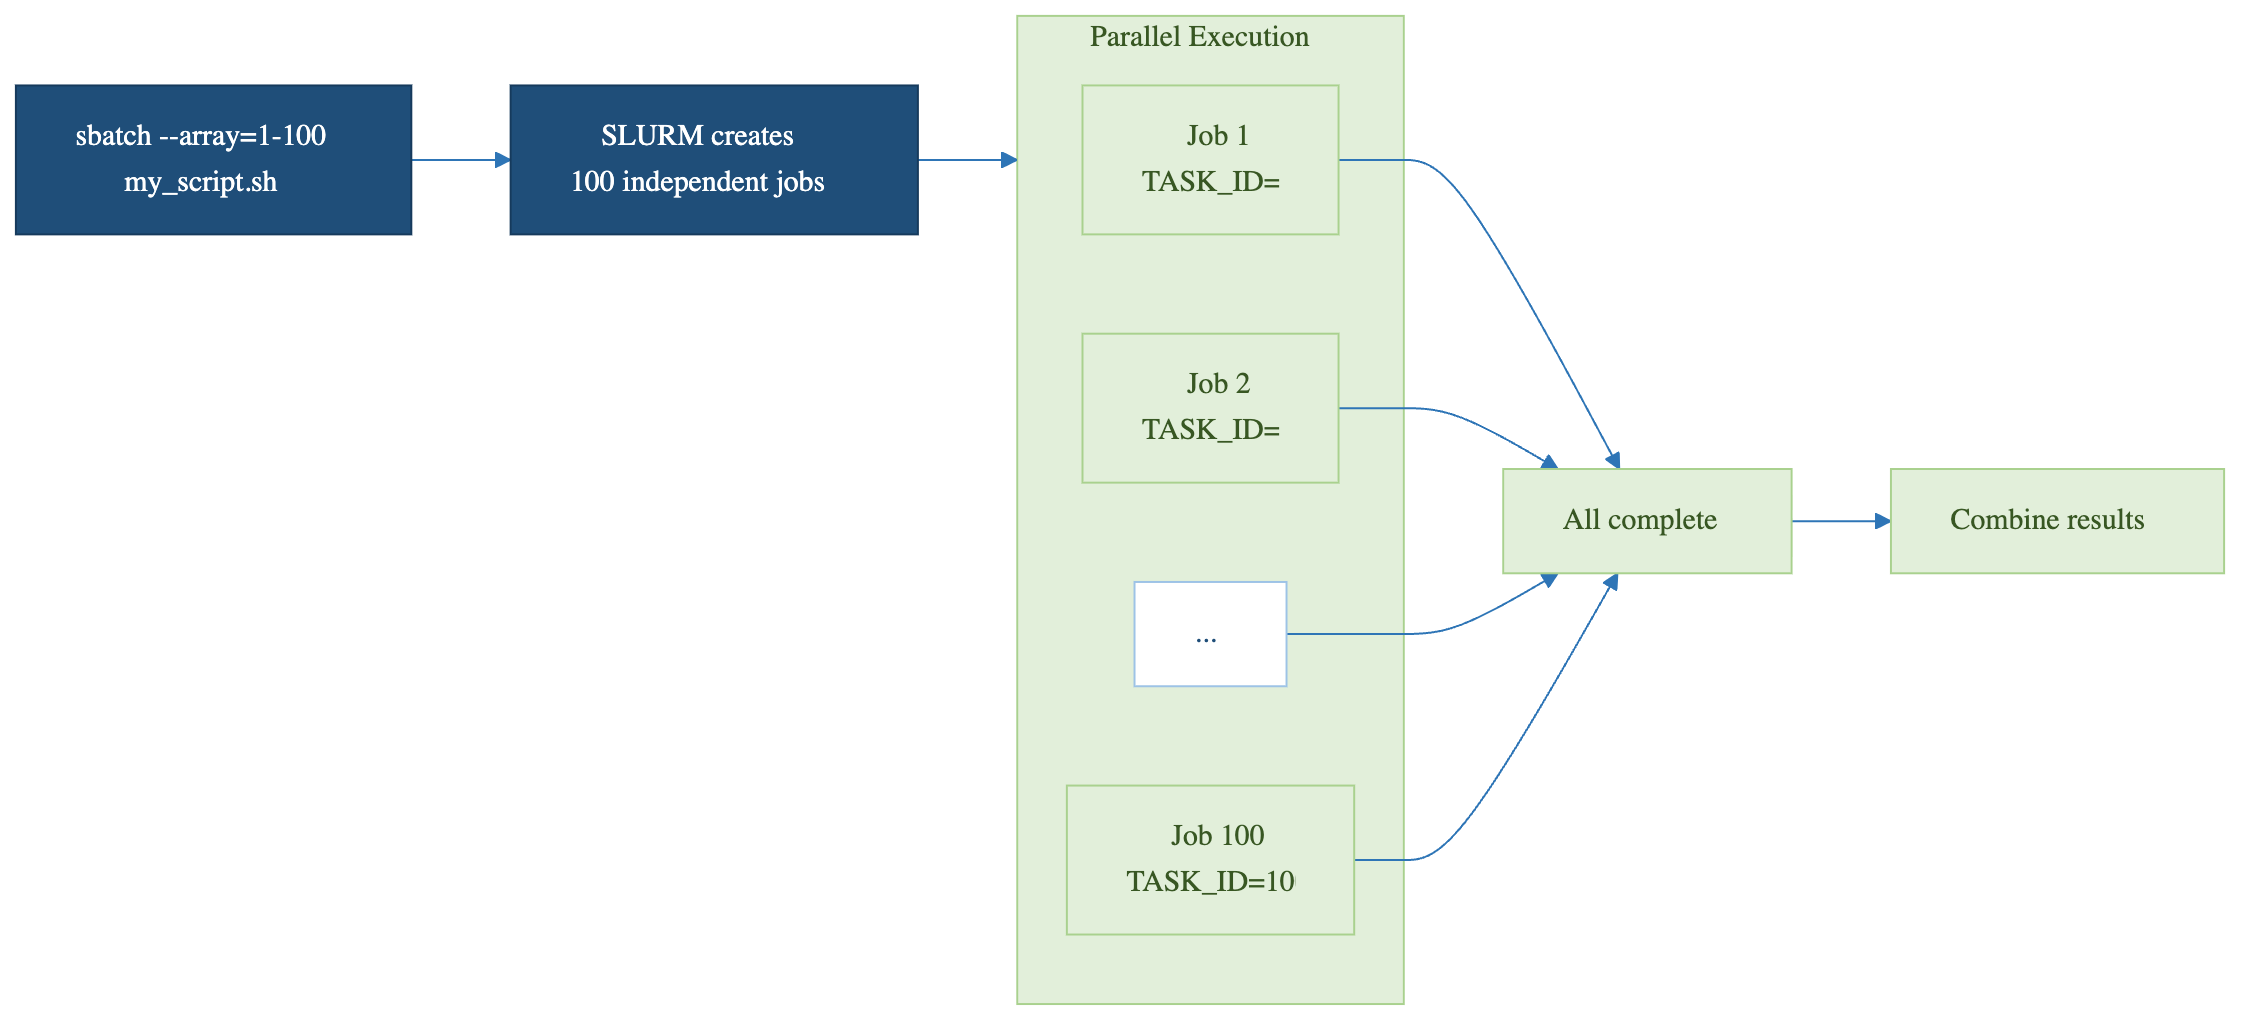
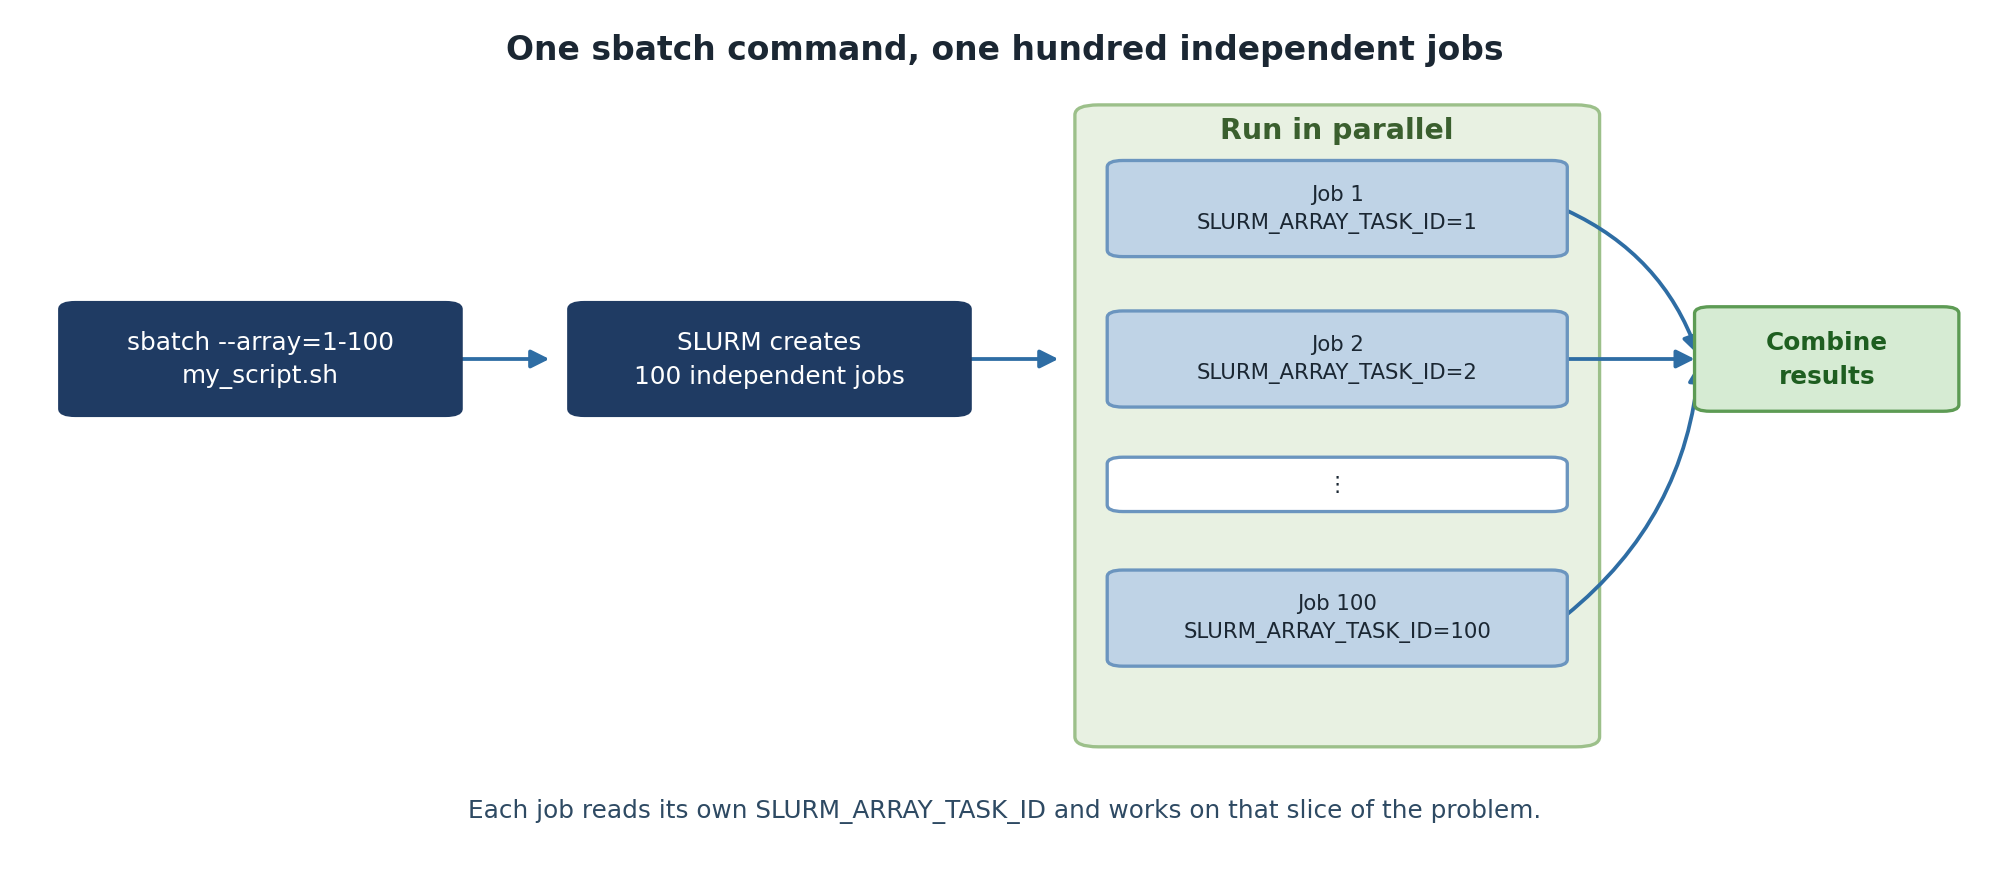
Rebuild and place the eight episode diagrams
All eight diagrams in this workshop existed in episodes/fig but were referenced
by nothing, so the workshop shipped with no illustrations at all. They were also
unusable as they stood: exported at aspect ratios up to 18:1, which renders as
an unreadable sliver at page width, with clipped labels and washed-out text.

Three carried factual errors, which is the more important reason they could not
simply be dropped in:

  02-shared-vs-distributed   said the shared RAM was 256 GB. Sagehen HPC compute
                             nodes have 500 GB, and 128 cores rather than 4.
  04-job-arrays              showed SLURM_ARRAY_TASK_ID blank for jobs 1 and 2
                             and equal to 10 for job 100.
  08-amdahl                  had 20% serial + 80%/4 cores arriving at 35%.
                             It is 40%.

Redrawn from the same content with those corrections, at page-friendly aspect
ratios between 1.7:1 and 2.3:1, and placed in the episode each one actually
belongs to. Note the file numbers are their own sequence, not episode numbers --
08-amdahl belongs to episode 2, and 02-shared-vs-distributed to episode 3.

Each is placed with a caption that makes a point rather than restating the
title, and alt text describing what the diagram shows for anyone using a
screen reader.

diff --git a/episodes/07-advanced-job-arrays.md b/episodes/07-advanced-job-arrays.md
@@ -89,6 +89,8 @@ print(f"Wrote {len(settings) * len(colors)} parameter combinations")
 
 The file approach decouples parameter generation from the SLURM script. You can review the file before submission, modify combinations without changing the script, and replicate the exact same sweep later by saving the file in version control.
 
+![A parameter sweep is a job array over a list of settings, one line per combination.](fig/05-parameter-sweep.png){alt='A five-step flow. Define the parameters, for example learning rate values of 0.001, 0.01 and 0.1 and batch sizes of 32, 64 and 128. Write them to a parameter file with nine combinations, one per line. Submit one array job with sbatch --array=1-9 sweep.sh. Each task reads the line matching its SLURM_ARRAY_TASK_ID and runs that experiment. Finally, collect the results and pick the best.'}
+
 ## Using argparse with Job Arrays
 
 The SLURM script handles index-to-parameter mapping, but the actual training script should accept parameters as command-line arguments using `argparse`:

diff --git a/episodes/02-amdahls-law.md b/episodes/02-amdahls-law.md
@@ -67,6 +67,8 @@ For each scenario, calculate the theoretical speedup on 8 processors:
 ::::::::::::::::::::::::::::::::::::::::::::::::
 ::::::::::::::::::::::::::::::::::::::::::::::::
 
+![The serial fraction sets a floor no amount of hardware can get below.](fig/08-amdahl.png){alt="Two panels illustrating Amdahl's Law. On the left, code is split into a serial portion of twenty percent that cannot be parallelised and a parallel portion of eighty percent that can use many cores. On the right, total time as cores increase: one core takes one hundred percent, four cores take twenty plus eighty over four equals forty percent, sixteen cores take twenty plus eighty over sixteen equals twenty-five percent, and infinite cores still take twenty percent because the serial portion remains."}
+
 ## Measuring in Practice
 
 ```bash

diff --git a/episodes/03-types-of-parallelism.md b/episodes/03-types-of-parallelism.md
@@ -51,6 +51,8 @@ Each processor has its **own memory**. Data sharing requires explicit message pa
 **Challenges:** Higher latency, explicit communication code.
 **Examples:** MPI, Spark, distributed databases.
 
+![Shared memory keeps everything in one address space; distributed memory makes you send data across the network yourself.](fig/02-shared-vs-distributed.png){alt='Two panels. Shared memory on one node shows four cores all reading the same 500 GB of RAM, used by OpenMP, threading and multiprocessing, with a note that all 128 cores on a node share that memory. Distributed memory across many nodes shows Node A and Node B, each with 128 cores and their own RAM, connected through a network, with a note that data must be sent explicitly using MPI.'}
+
 ### Sagehen HPC's Hybrid Architecture
 
 Sagehen uses both:

diff --git a/episodes/11-mpi-basics.md b/episodes/11-mpi-basics.md
@@ -135,6 +135,8 @@ if rank == 0:
 
 This is a classic MPI pattern: each rank gets disjoint work derived from its rank ID, computes locally, and contributes to a final reduction. There is no inter-rank communication during the actual computation, only at the end. This minimizes communication and gives near-linear scaling.
 
+![The four collective operations, and which direction the data moves in each.](fig/06-mpi-operations.png){alt='Four panels showing MPI collective operations. Reduce sums values 3, 7 and 2 from ranks 1 to 3 into 12 on rank 0. Gather collects B, C and D from ranks 1 to 3 into A B C D on rank 0. Scatter sends the parts of A B C D from rank 0 out to ranks 1, 2 and 3. Broadcast copies the value A from rank 0 to all three other ranks.'}
+
 ## MPI Performance Considerations
 
 MPI scales well only if:

diff --git a/episodes/04-embarrassingly-parallel.md b/episodes/04-embarrassingly-parallel.md
@@ -38,6 +38,8 @@ If you answered YES to all four, use job arrays!
 
 ::::::::::::::::::::::::::::::::::::::::::::::::
 
+![If the tasks are independent and the results can be combined afterwards, a job array is all you need.](fig/03-embarrassingly-parallel.png){alt='A decision tree starting from the question, is my problem embarrassingly parallel. If the tasks are not independent, the answer is that it is not embarrassingly parallel and MPI is covered in episode 11. If they are independent, the next question is whether results can be combined afterwards; if yes, use a SLURM job array with sbatch --array=1-100, and if no, restructure the problem first.'}
+
 ## Common Patterns
 
 ### Pattern 1: Parameter Sweeps

diff --git a/episodes/06-slurm-job-arrays.md b/episodes/06-slurm-job-arrays.md
@@ -82,6 +82,8 @@ Or just submit with `--array=0-99` instead of `--array=1-100`. Pick a convention
 
 ::::::::::::::::::::::::::::::::::::::::::::::::
 
+![One sbatch command creates a hundred independent jobs, each told which slice of the work it owns.](fig/04-job-arrays.png){alt='A flow diagram. The command sbatch --array=1-100 my_script.sh causes SLURM to create 100 independent jobs, which run in parallel. Job 1 has SLURM_ARRAY_TASK_ID equal to 1, Job 2 has 2, and Job 100 has 100. All of them feed into a step that combines the results. A caption notes that each job reads its own SLURM_ARRAY_TASK_ID and works on that slice of the problem.'}
+
 ## Practical Examples
 
 ### Parameter Sweep

diff --git a/episodes/01-why-parallel-computing.md b/episodes/01-why-parallel-computing.md
@@ -44,6 +44,8 @@ Total time: 10 seconds
 
 **Parallelism trades computational work across multiple processors to reduce wall clock time.**
 
+![Three independent two-hour tasks: run one after another and the job takes six hours; run them at the same time and it takes two.](fig/01-serial-vs-parallel.png){alt='Two panels. On the left, serial execution: Task A, Task B and Task C each take two hours and run one after another, giving a total of six hours. On the right, parallel execution: the same three tasks run at the same time and all feed into a total of two hours, with a note that the job finishes when the slowest task does.'}
+
 ## Understanding Speedup and Efficiency
 
 ### Speedup

diff --git a/episodes/12-choosing-approach.md b/episodes/12-choosing-approach.md
@@ -50,6 +50,8 @@ Does it take > 1 minute?
 
 **Order of preference: Job arrays > Shared memory > MPI**
 
+![Work down the list and stop at the first approach that fits.](fig/07-strategy-decision.png){alt='A decision tree for choosing a parallelisation strategy. If the tasks are fully independent, start with SLURM job arrays. If not, ask whether the work fits on one node of up to 128 cores; if it does, use shared memory with OpenMP or multiprocessing. If not, ask whether it must span multiple nodes; if it must, use MPI, the most complex option, and if not, rethink the problem.'}
+
 ## Worked Examples
 
 ### Parameter Sweep (100 ML trainings, 30s each)
